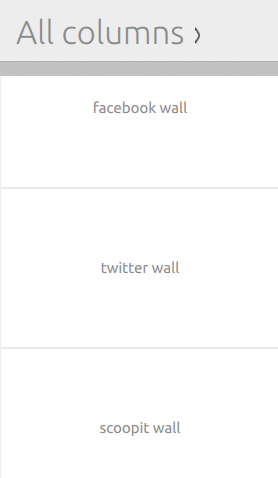
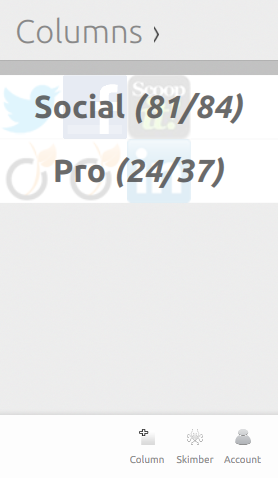
update skimbou photos

diff --git a/mobile.html b/mobile.html
@@ -19,13 +19,25 @@ SkimboU est une application pour les prochains téléphones tournant sous <a hre
 
 <h2><a name="columns">Voir toutes mes colonnes</a></h2>
 
-<center><img src="{{site.baseurl}}/images/mobile/skimbou_all_columns.png"></center>
+<center><img src="{{site.baseurl}}/images/mobile/skimbou_all_columns.png"><img src="{{site.baseurl}}/images/mobile/skimbou_all_columns_2.png"></center>
 
 <h2><a name="messages">Voir les messages</a></h2>
 
 <center><img src="{{site.baseurl}}/images/mobile/skimbou_posts.png"><img src="{{site.baseurl}}/images/mobile/skimbou_post_twitter.png"></center>
 
 <center><img src="{{site.baseurl}}/images/mobile/skimbou_posts_2.png"><img src="{{site.baseurl}}/images/mobile/skimbou_post_github.png"></center>
+
+<center><img src="{{site.baseurl}}/images/mobile/skimbou_posts_3.png"><img src="{{site.baseurl}}/images/mobile/skimbou_posts_4.png"></center>
+
+<h2><a name="messages">Skimber : envoyer un message</a></h2>
+
+<center><img src="{{site.baseurl}}/images/mobile/skimbou_skimber.png"></center>
+
+<center><img src="{{site.baseurl}}/images/mobile/skimbou_skimber_2.png"><img src="{{site.baseurl}}/images/mobile/skimbou_skimber_3.png"></center>
+
+<h2><a name="addCol">Mon compte</a></h2>
+
+<center><img src="{{site.baseurl}}/images/mobile/skimbou_account_1.png"><img src="{{site.baseurl}}/images/mobile/skimbou_account_2.png"></center>
 
 <h2><a name="addCol">Ajouter une colonne</a></h2>
 
@@ -42,6 +54,10 @@ SkimboU est une application pour les prochains téléphones tournant sous <a hre
 <h3><a name="starMessage">Etoiler un message : retweet, like, +1, thank...</a></h3>
 
 <center><img src="{{site.baseurl}}/images/mobile/skimbou_post_twitter_toolbar.png"><img src="{{site.baseurl}}/images/mobile/skimbou_post_github_toolbar.png"></center>
+
+<h2><a name="addCol">Nous contacter</a></h2>
+
+<center><img src="{{site.baseurl}}/images/mobile/skimbou_contact_1.png"><img src="{{site.baseurl}}/images/mobile/skimbou_contact_2.png"></center>
 
 <h3>Bientôt</h3>
 

diff --git a/mobile_en.html b/mobile_en.html
@@ -19,13 +19,25 @@ SkimboU is an application for the next phone generation running with <a href="ht
 
 <h2><a name="columns">Show all columns</a></h2>
 
-<center><img src="{{site.baseurl}}/images/mobile/skimbou_all_columns.png"></center>
+<center><img src="{{site.baseurl}}/images/mobile/skimbou_all_columns.png"><img src="{{site.baseurl}}/images/mobile/skimbou_all_columns_2.png"></center>
 
 <h2><a name="messages">Show messages from providers</a></h2>
 
 <center><img src="{{site.baseurl}}/images/mobile/skimbou_posts.png"><img src="{{site.baseurl}}/images/mobile/skimbou_post_twitter.png"></center>
 
 <center><img src="{{site.baseurl}}/images/mobile/skimbou_posts_2.png"><img src="{{site.baseurl}}/images/mobile/skimbou_post_github.png"></center>
+
+<center><img src="{{site.baseurl}}/images/mobile/skimbou_posts_3.png"><img src="{{site.baseurl}}/images/mobile/skimbou_posts_4.png"></center>
+
+<h2><a name="messages">Skimber : send a message</a></h2>
+
+<center><img src="{{site.baseurl}}/images/mobile/skimbou_skimber.png"></center>
+
+<center><img src="{{site.baseurl}}/images/mobile/skimbou_skimber_2.png"><img src="{{site.baseurl}}/images/mobile/skimbou_skimber_3.png"></center>
+
+<h2><a name="addCol">My account</a></h2>
+
+<center><img src="{{site.baseurl}}/images/mobile/skimbou_account_1.png"><img src="{{site.baseurl}}/images/mobile/skimbou_account_2.png"></center>
 
 <h2><a name="addCol">Add column</a></h2>
 
@@ -42,6 +54,10 @@ SkimboU is an application for the next phone generation running with <a href="ht
 <h3><a name="starMessage">Star message : retweet, like, +1, thank...</a></h3>
 
 <center><img src="{{site.baseurl}}/images/mobile/skimbou_post_twitter_toolbar.png"><img src="{{site.baseurl}}/images/mobile/skimbou_post_github_toolbar.png"></center>
+
+<h2><a name="addCol">Contact us</a></h2>
+
+<center><img src="{{site.baseurl}}/images/mobile/skimbou_contact_1.png"><img src="{{site.baseurl}}/images/mobile/skimbou_contact_2.png"></center>
 
 <h3>Soon</h3>
 
